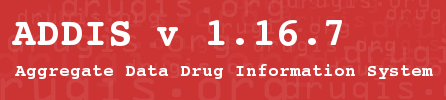
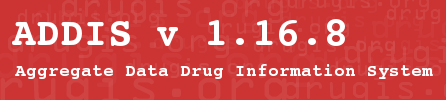
ADDIS 1.16.8 automated changes

Changed region(s): [[0.7287, 0.18, 0.787, 0.48]]

diff --git a/installer/src/izpack/README.html b/installer/src/izpack/README.html
@@ -22,6 +22,8 @@ modern operating systems ship with a suitable JRE.</p>
 
 <h2>Versions</h2>
 
+<p>1.16.8: Bugfixes for export to ADDIS 2.</p>
+
 <p>1.16.7: Add export to ADDIS 2. Require Java 7.</p>
 
 <p>1.16.6: Bugfix release.</p>
